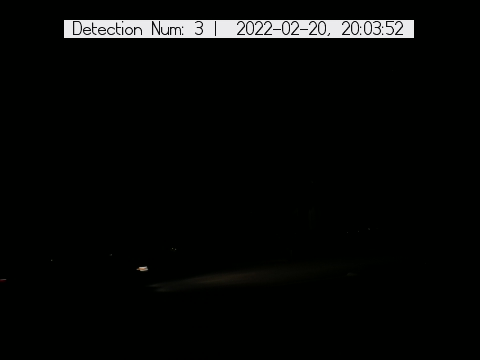
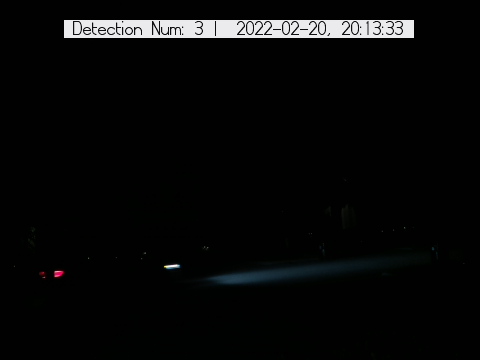
Commiting photos and text.

diff --git a/README.md b/README.md
@@ -1,2 +1,2 @@
 Detection Num: 1 |  2022-02-20, 20:08:43<br />
-Detection Num: 2 |  2022-02-20, 20:11:40<br />
+Detection Num: 2 |  2022-02-20, 20:11:40<br />Detection Num: 3 |  2022-02-20, 20:13:33<br />
